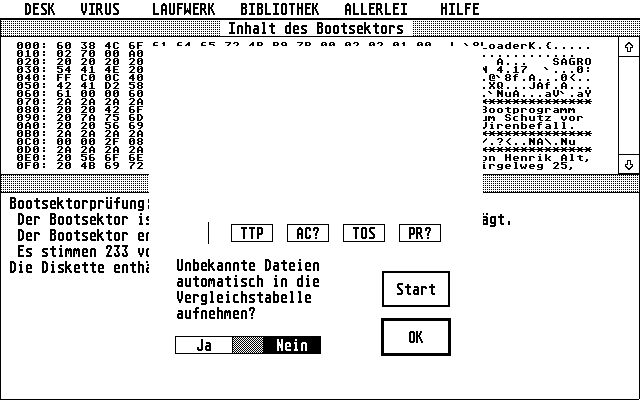
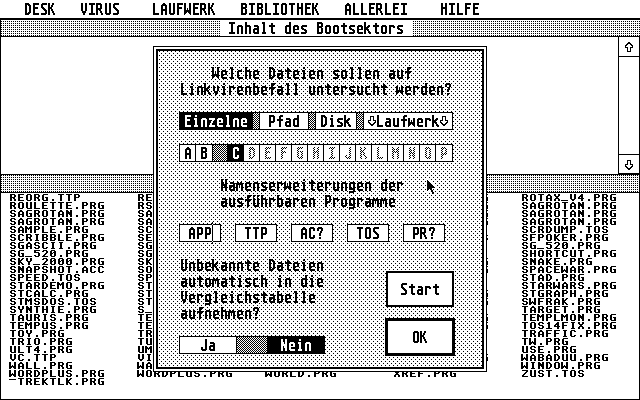
updated sagrotan article

Changed region(s): [[0.0, 0.09, 0.9688, 0.96]]

diff --git a/content/blog/antiviruses/sagrotan/sagrotan.md b/content/blog/antiviruses/sagrotan/sagrotan.md
@@ -12,214 +12,145 @@ image: {filename}../../../gallery/antiviruses/sagrotan.png
 Tags: Antivirus
 
 ## Basic Information
-* Version 4.17 released 1990/05/13
-* Author: Henrik Alt
-* Program language: German
-* Can detect 15 viruses, 91 regular boot sectors, 106 total
-# Main Part
 
-The antivirus was written by German programmer Henrik Alt on 1990/05/13 and can recognize 106 boot sectors. When launching the program, you are greeted with a welcome screen containing information about the author and the program.
+- *Last version*: 4.17 released 1990-05-13
+- *Author*: Henrik Alt
+- *language*: German, some versions translated in English and French
+- *Can detect*: 15 viruses, 91 regular boot sectors, 106 total. X link viruses
+- *Other known versions*: 4.03, 4.10, 4.12, 4.14, 4.17
+- *License*: Freeware
 
 ![photo]({attach}sagrotan_photo_0.png)
 
-There are higher versions available, but they are translations and don't offer significant additional benefits. The main menu contains several tabs. Let's go through them first!
 
-### Tabs:
+### Recognized viruses:
 
-1. _Desk_
+- *Boosectors viruses*: AIDS, Ghost, CT, OLI, Maulwurf I, Kobold #2, Fastload, Signum BPL, BHP, Fun, Swiss, Screen, VDU, Bomb, PD141t,...
+- *Link virus*: ...
+- *Others*: N/A
 
-2. _Virus_
+![photo]({attach}sagrotan_photo_6.png)
 
-3. _Laufwerk_
+## Chalenges
 
-4. _Bibliothek_
+### Challenge 1: Recognize bootsector viruses not loaded in memory
 
-5. _Allerhei_
+#### Directions:
 
-6. _Hilfe_
+To test a floppy disk using Sagrotan, here are the following actions:
 
-### Desk
-
-This tab contains:
-
-* **SAGROTAN**
-
-* **UMLAUT**
-
-* **Schreibschutz**
-
-* **Multi-ACC**
-
-### What are they doing?
-
-1. This tab displays the information seen when first starting the program
-
-2. Print settings for EPSON printers
-
-3. Enable software write protection for the selected drive
-
-4. More detailed drive settings
-
-![photo]({attach}sagrotan_photo_1.png)
-
-### Virus
-
-This tab contains:
-
-* **Bootsektor prüfen**
-
-* **Bootsektor schützen**
-
-* **Bootsektor löschen**
-
-* **Bootsektor reparieren**
-
-* **Analyse wiederholen**
-
-* **Disk Info**
-
-* **Speichertest (Memory)**
-
-* **Dateien (Files)**
-
-* **Optionen**
-
-* **Komplettprüfung**
-
-* **Ende**
-
-### What are they doing?
-
-1. Allows checking the boot sector for viruses and shows whether it is executable or not
+- insert the floppy disk to test in drive A:
+- select the menu `LAUFWERK` to choose the drive
+- select the menu action `Laufwerk A:  <A>` to chose the drive A
+- select the menu `VIRUS`
+- select the menu action `Bootsektor prüfen  <P>` to test the bootsector
+- Click Ok to validate the action
 
 ![photo]({attach}sagrotan_photo_2.png)
 
-2. Allows writing the Sagrotan vaccine to the boot sector
+- Then the bootsector details will appear and the analysis result
 
-3. Allows complete cleaning of the boot sector
+#### One of the most spread virus: Ghost
 
-4. Allows restoring the boot sector by writing a boot sector of your choice to it
+Here is the result with a disk infected by the Ghost virus:
 
-![photo]({attach}sagrotan_photo_3.png)
+![photo]({attach}sagrotan_photo_2.png)
 
-5. Allows repeating the boot sector analysis
+We can see that Sagrotan succesfully identified the Ghost virus...
 
-6. Shows disk information
 
-7. Allows checking memory for viruses
+#### A key virus and is keyed disk: Signum BPL
 
-8. Allows checking a file for Link Viruses
+#### A polymorphic virus: Macumba 3.3
 
-9. Allows configuring the scan for Link Viruses
+#### A trojan virus: Carpe Diem
+
+#### A stealth virus: OLI2
+
+#### A non executable bootsector: EICAR
+
+### Challenge 2: Recognize bootsector viruses loaded in memory
+
+#### Directions
+
+- Boot with the infected floppy disk in drive A:
+- Swap the disk with Sagrotan 
+- Run Sagrotan
+- Check Sagrotan warning appears, saying that the virus is found in memory
+- If the virus was not fully detected, run the same directions as Challenge 1
+
+
+#### One of the most spread virus: Ghost
+
+Here is the result with a disk infected by the Ghost virus:
+
+![photo]({attach}sagrotan_photo_2.png)
+
+#### A key virus and is keyed disk: Signum BPL
+
+#### A polymorphic virus: Macumba 3.3
+
+#### A trojan virus: Carpe Diem
+
+#### A stealth virus: OLI2
+
+#### A non executable bootsector: EICAR
+
+
+### Challenge 3: Recognize a link virus
+
+#### Directions
+
+ - ... => Explain direction to detect a link virus knowing that 2 methods exists, one is using known footprint of PRG/TOS/TTP files and check if the footprint has changed, second is really to look like at the link virus code.
 
 ![photo]({attach}sagrotan_photo_4.png)
 
-10. Allows checking all programs on the disk for Link Viruses
+#### The first link virus: Milzbrand
 
-11. Allows exiting Sagrotan
 
-### Laufwerk
+### Challenge 3: Restore a broken bootsector
 
-This tab allows you to select the drive (Drive A, Drive B... and hard drive) on which all operations will be performed.
+#### Directions
 
-### Bibliothek
+ - ... => Explain direction to repair a boot sector, take the Fantasia deo from Dune, add the bootsector to the library, replace the bootsector using the vaccine, repair the bootsector and check the demo is still working after restoration.
 
-This tab contains:
+### Challenge 4: Vaccine a non executable floppy disk
 
-* **Alle Bootsektoren speichern**
+#### Directions
 
-* **Bootsektor speichern**
-
-* **Virus speichern**
-
-* **Programinformationen speichern**
-
-* **Zeige Vergleichsdateien**
-
-### What are they doing?
-
-1. Allows saving all boot sectors
-
-2. Allows saving a boot sector
-
-3. Allows saving a virus
-
-4. Allows saving program information
-
-5. Shows everything that Sagrotan can recognize
-
-### Allerlei
-
-This tab contains:
-
-* **Einstellung sichern**
-
-* **Druckerprotokoll**
-
-* **Blitter**
-
-* **Textgröße 13**
-
-* **Textgröße 6**
-
-* **Kaltstart**
-
-### What are they doing?
-
-1. Allows saving settings
-
-2. Printer log
-
-3. Blitter
-
-4. Allows setting the text size to 13
-
-5. Allows setting the text size to 6
-
-6. Allows performing a cold boot
-
-### Hilfe
-
-* **Extrahilfe**
-
-* **Warnmeldungen**
-
-### What are they doing?
-
-1. Extra help
-
-2. Warnings
-
-### Vaccine
-
-This antivirus has its own vaccine, and when you boot up, you'll see this: 
+ - ... => Explain directions to vaccine a floppy disk, reboot with an infected disk, warm reboot with the vaccinated disk and check if the vaccin detected the virus and if it was not repalced by the virus
 
 ![photo]({attach}sagrotan_photo_5.png)
 
-## Virus Test
+### Challenge 5: Analyze a suspicious bootsector
 
-* **ACA**
+#### Directions
 
-* **Macumba 3.3**
+- ... => Explain directions to study a suspicious bootsector: vectors, checksum, heuristics, BPB,...
 
-* **Merlin's Mad**
+![photo]({attach}sagrotan_photo_3.png)
 
-* **Non-Executable EICAR Virus**
+### Challenge 6: Detect a malware when Sagrotan is not running
 
-* **Oli**
+#### Directions
 
-### Test results
+ - ... => Explain the directions to run the resident virus checker, usually a memory resident vaccine or a TOS ACC-essory, then try to detect a bootsector virus and a link virus
 
-1. **Sagrotan** detected 6 signs of virus infection, found that the checksum is $1234, and requested to clean the disk from viruses.
+Sagrotan doesn't have any resident TOS Accessory which can detect viruses while Sagrotan is not running 
 
-2. **Sagrotan**  found that the checksum is $1234, said it is an MS-DOS disk, and added that virus infection is unlikely.
 
-3. **Sagrotan** detected 3 signs of virus infection, found that the checksum is $1234, and requested to clean the disk from viruses.
+### Summary and Conclusion
 
-4. **Sagrotan** said the disk is not executable.
+In the following table, we summarized the challenges results:
 
-5. **Sagrotan** correctly identified the OLI virus.
+| Challenge                                           | Result   |
+|-----------------------------------------------------|:--------:|
+| Recognize bootsector viruses not loaded in memory   |  5/6     |
+| Recognize bootsector viruses loaded in memory       |  1/6     |
+| Restore a broken bootsector                         |  1/1     |
+| Vaccine a non executable floppy disk                |  1/4     |
+| Analyze a suspicious bootsector                     |  3/4     |
+| Detect a malware when Sagrotan is not running       |  0/2     |
+| **Total**                                           |  10/20   |
 
-## In conclusion
-
-An excellent virus killer capable of detecting new viruses. 5,5/10
+As a conclusion, we can say that...
